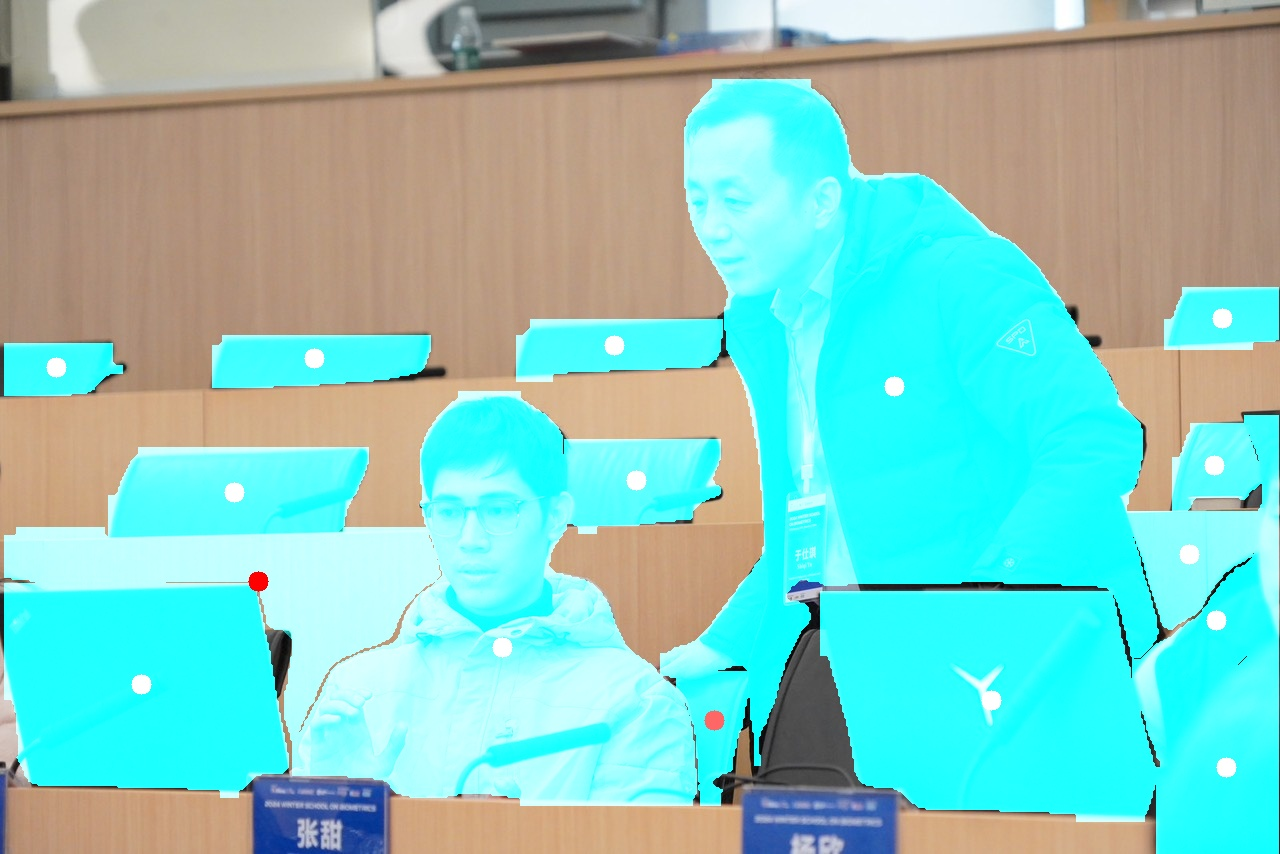
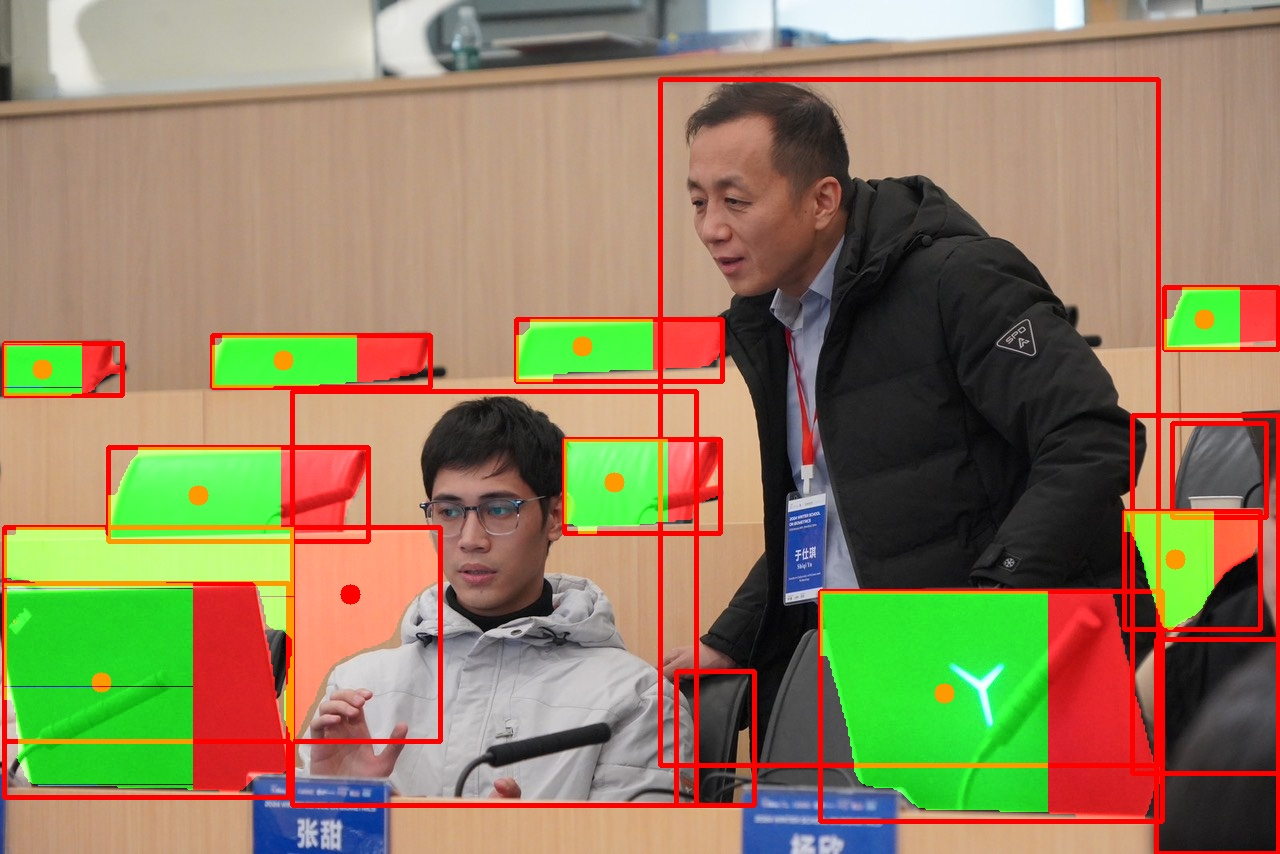
final

diff --git a/segmentation_anything.py b/segmentation_anything.py
@@ -34,6 +34,8 @@ for result in results:
     color_mask = np.zeros_like(cap, dtype=np.uint8)
     visualized_image = cap.copy()
     for i, ins in enumerate(result.masks.xy):
+        # color_mask = np.zeros_like(cap, dtype=np.uint8)
+        # visualized_image = cap.copy()
         # box = result.boxes.xyxy[i].numpy()
         # print("Class: {}".format(result.boxes.cls[i]))
         # print("Box: {}".format(box))
@@ -50,14 +52,90 @@ for result in results:
         max_y = np.max(points[:, 0])
         print("points: {}".format(points))
         centroid = np.mean(points, axis=0)[::-1]
-        color_mask = np.where(mask[:, :, np.newaxis], color[np.newaxis, np.newaxis, :], color_mask)
-        visualized_image = np.where(color_mask > 0, cv2.addWeighted(visualized_image, 2, color_mask, 0.4, 0), visualized_image)
+        # color_mask = np.where(mask[:, :, np.newaxis], color[np.newaxis, np.newaxis, :], color_mask)
+        # visualized_image = np.where(color_mask > 0, cv2.addWeighted(visualized_image, 2, color_mask, 0.4, 0), visualized_image)
         print("Mask: {}".format(mask.shape))
         print("Centroid xy: {}".format(centroid))
-        cv2.circle(visualized_image, (int(centroid[0]), int(centroid[1])), radius=10, color=(0, 0, 255), thickness=-1)
+        # cv2.circle(visualized_image, (int(centroid[0]), int(centroid[1])), radius=10, color=(0, 0, 255), thickness=-1)
         # x1, y1, x2, y2 = box
-        # cv2.rectangle(visualized_image, (min_x, min_y), (max_x, max_y), (0, 0, 255), 3)
-    
+        cv2.rectangle(visualized_image, (min_x, min_y), (max_x, max_y), (0, 0, 255), 3)
+
+        dist_x = max_x - min_x
+        dist_y = max_y - min_y
+
+        if dist_x > dist_y:
+            divide_by_x = True
+        else:
+            divide_by_x = False
+
+        if divide_by_x:
+            one_third_x = int(min_x + 1/3 * dist_x)
+            two_third_x = int(min_x + 2/3 * dist_x)
+            print("one_third_x: {}, two_third_x: {}, min_x: {}, max_x: {}".format(one_third_x, two_third_x, min_x, max_x))
+            mask_one_third = mask.copy()
+            mask_one_third[:, one_third_x:] = False
+            mask_one_two = mask.copy()
+            # mask_one_two[:, one_third_x:(two_third_x + 1)] = False
+            mask_one_two[: :one_third_x] = False
+            mask_one_two[:, two_third_x:] = False
+            mask_two_third = mask.copy()
+            mask_two_third[:, :two_third_x] = False
+            area_one_third = np.argwhere(mask_one_third == True).shape[0]
+            area_one_two = np.argwhere(mask_one_two == True).shape[0]
+            area_two_third = np.argwhere(mask_two_third == True).shape[0]
+            print(area_one_third, area_one_two, area_two_third)
+
+            max_ind = np.argmax([area_one_third, area_one_two, area_two_third])
+            if max_ind == 0:
+                max_mask = mask_one_third
+            elif max_ind == 1:
+                max_mask = mask_one_two
+            else:
+                max_mask = mask_two_third
+            print(max_ind)
+            # chosen_point = np.mean(np.argwhere(max_mask == True), axis=0)[::-1]
+
+        else:
+            one_third_y = int(min_y + 1/3 * dist_y)
+            two_third_y = int(min_y + 2/3 * dist_y)
+
+            mask_one_third = mask.copy()
+            mask_one_third[one_third_y:, :] = False
+            mask_one_two = mask.copy()
+            # mask_one_two[:, one_third_y:(two_third_y + 1)] = False
+            mask_one_two[:one_third_y + 1, :] = False
+            mask_one_two[two_third_y:, :] = False
+            mask_two_third = mask.copy()
+            mask_two_third[:two_third_y+1, :] = False
+            area_one_third = np.argwhere(mask_one_third == True).shape[0]
+            area_one_two = np.argwhere(mask_one_two == True).shape[0]
+            area_two_third = np.argwhere(mask_two_third == True).shape[0]
+
+            max_ind = np.argmax([area_one_third, area_one_two, area_two_third])
+            if max_ind == 0:
+                max_mask = mask_one_third
+            elif max_ind == 1:
+                max_mask = mask_one_two
+            else:
+                max_mask = mask_two_third
+
+        chosen_point = np.mean(np.argwhere(max_mask == True), axis=0)[::-1]
+        print("chosen_point: {}".format(chosen_point))
+        
+        # color = np.array([np.random.randint(0, 255), np.random.randint(0, 255), np.random.randint(0, 255)], dtype=np.uint8)
+        # color_mask = np.where(max_mask[:, :, np.newaxis], color[np.newaxis, np.newaxis, :], color_mask)
+        if divide_by_x:
+            color_mask = np.where(mask_one_third[:, :, np.newaxis], np.array([255, 0, 0], dtype=np.uint8)[np.newaxis, np.newaxis, :], color_mask)
+            color_mask = np.where(mask_one_two[:, :, np.newaxis], np.array([0, 255, 0], dtype=np.uint8)[np.newaxis, np.newaxis, :], color_mask)
+            color_mask = np.where(mask_two_third[:, :, np.newaxis], np.array([0, 0, 255], dtype=np.uint8)[np.newaxis, np.newaxis, :], color_mask)
+            # visualized_image = np.where(color_mask > 0, cv2.addWeighted(visualized_image, 2, color_mask, 0.4, 0), visualized_image)
+
+            cv2.circle(visualized_image, (int(chosen_point[0]), int(chosen_point[1])), radius=10, color=(0, 0, 255), thickness=-1)
+
+        # cv2.imshow("Anh", visualized_image)
+        # cv2.waitKey(0)
+        # cv2.destroyAllWindows()
+    visualized_image = np.where(color_mask > 0, cv2.addWeighted(visualized_image, 2, color_mask, 0.6, 0), visualized_image)
     cv2.imwrite("Anh.jpg", visualized_image)
     # cv2.waitKey(0)
     # for ins in result.masks.data:
